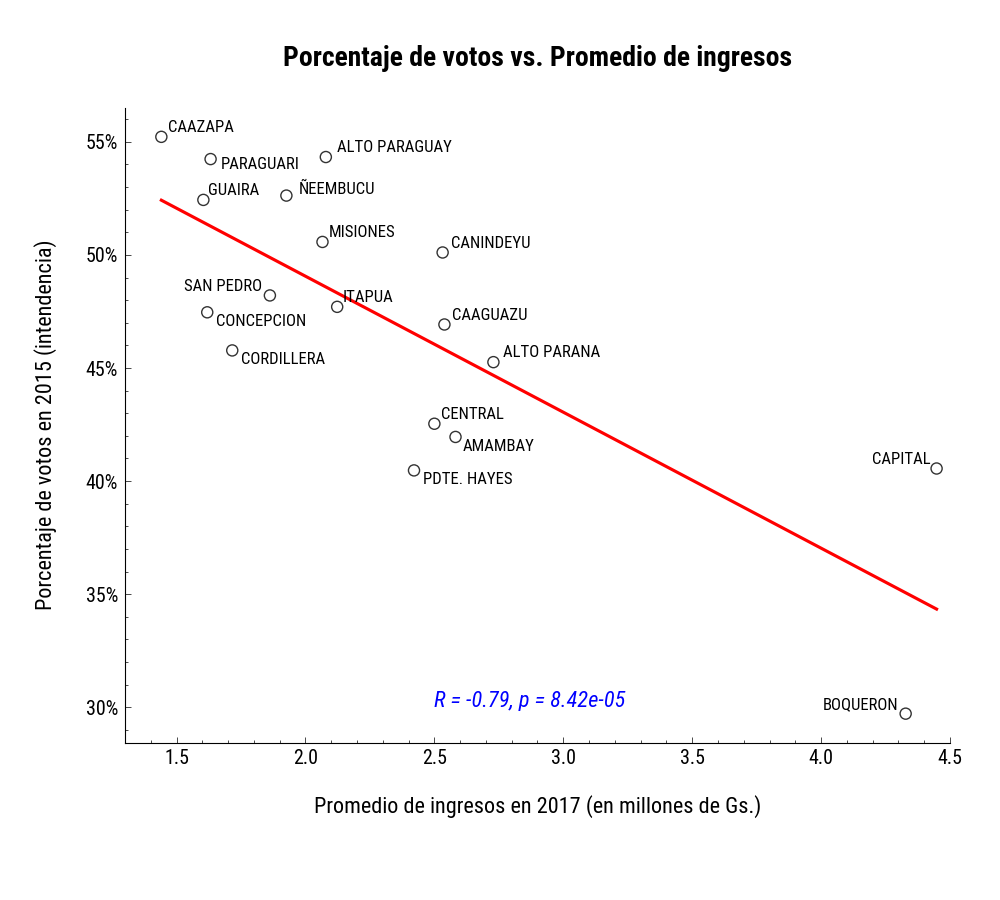
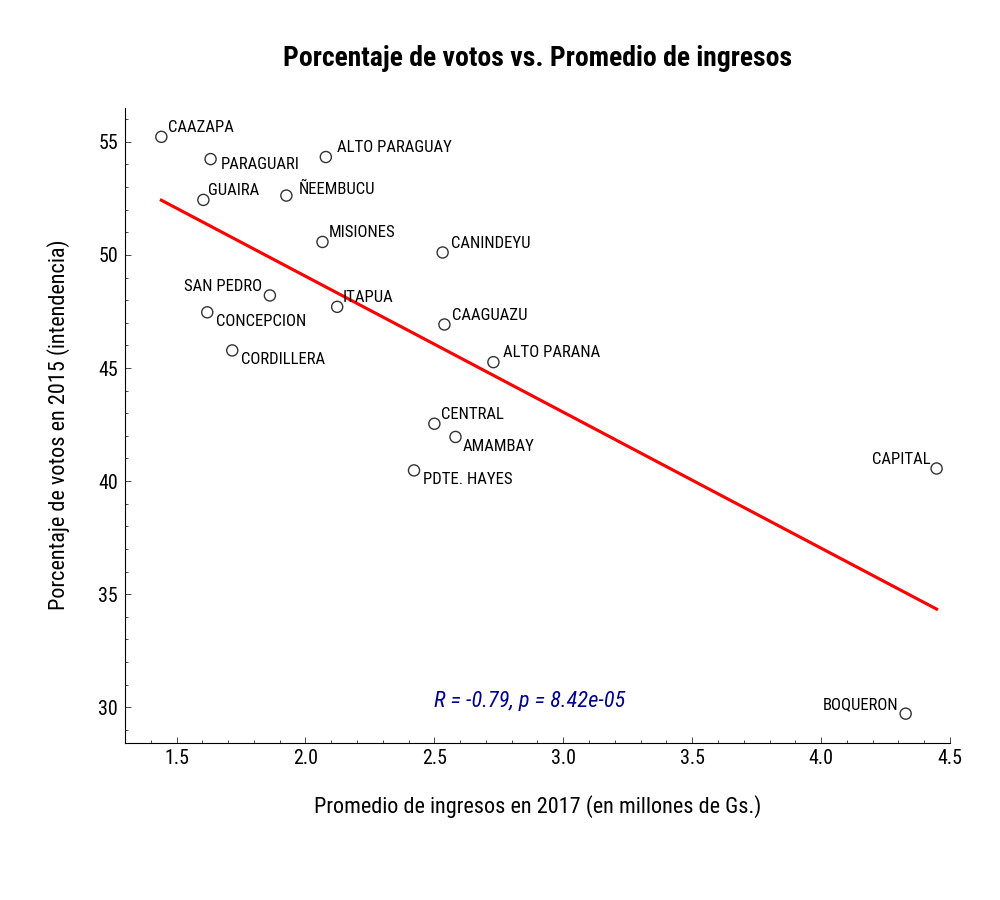
anr_mayor: Graph vote share per dep vs poverty

diff --git a/src/graph/grapher.py b/src/graph/grapher.py
@@ -1,4 +1,6 @@
 import pathlib
+from typing import Tuple, TypedDict
+from numpy import float128
 
 import pandas as pd
 import matplotlib.pyplot as plt
@@ -6,6 +8,12 @@ import seaborn as sns
 
 from adjustText import adjust_text
 from ..stats import Stats
+
+
+class StatCor(TypedDict):
+    show: bool
+    x_pos: float
+    y_post: float
 
 
 class Grapher:
@@ -22,24 +30,32 @@ class Grapher:
         style = str(pathlib.Path(__file__).parent) + "/.mplstyle"
         plt.style.use(style)
 
-    def make_vs_income_graph(
+    def make_vs_indicator_graph(
         self,
+        indicator: str,
         df: pd.DataFrame,
         y_column: str,
         title: str,
         xlab: str,
         ylab: str,
+        xticksuffix: str = "",
         yticksuffix: str = "",
+        indicator_factor: float = 1.0,
+        xlim: Tuple[int, int] = None,
+        stat_cor: StatCor = {'show': False}
     ):
         """
         Takes a data frame and the column to be used as the dependent variable
-        and creates a plot with income as the independent variable.
+        and creates a plot with the provided development indicator as the
+        independent variable.
 
         Parameters
         ----------
         df : Dataframe
             The dataframe that contains the dependent variable and the column
             by which to merge the dependent and independent variables.
+        indicator : String
+            Development indicator variable to use as independent variable.
         y_column: String
             The dependent variable's column name in dataframe.
         title: String
@@ -50,44 +66,97 @@ class Grapher:
             The y axis label.
         yticksuffix:
             Suffix to add to the dependent variable's ticks such as "%".
+        indicator_factor: Float
+            Scale indicator value by this factor.
         """
 
-        income = self.income[["dep", "valor"]]
-        income = income.rename(columns={"valor": "income"})
-        income["income_millions"] = income["income"] / 1000000
+        # Queries for the requested indicator and creates a pandas dataframe
+        # with dev_indicator as a column that contains the indicator's values.
+        #
+        # The values are then divided by the provided factor.
+        dev_ind = self.devIndicators.query(f"indicador == '{indicator}'")
+        dev_ind = dev_ind[["dep", "valor"]]
+        dev_ind = dev_ind.rename(columns={"valor": indicator})
+        dev_ind[indicator] = dev_ind[indicator] * indicator_factor
 
-        mergedDf = df.merge(income, on="dep")
+        mergedDf = df.merge(dev_ind, on="dep")
 
-        # Create regression plot.s
+        # Creates regression plot.
         ax = sns.regplot(
-            x=mergedDf["income_millions"],
+            x=mergedDf[indicator],
             y=mergedDf[y_column],
             ci=None,
             scatter_kws={"fc": "none", "edgecolor": "black"},
             line_kws={"color": "red"}
         )
         ax.set(xlabel=xlab, ylabel=ylab, title=title)
-        ax.set_xlim(1.3, 4.5)
 
-        # Add % suffix to y ticks.
+        if xlim:
+            ax.set_xlim(xlim)
+
+        # Adds suffix to x ticks.
+        ticks = plt.yticks()[0]
+        xlabels = [f"{x:.0f}{xticksuffix}" for x in ticks]
+        plt.yticks(ticks=ticks, labels=xlabels)
+
+        # Adds suffix to y ticks.
         ticks = plt.yticks()[0]
         ylabels = [f"{y:.0f}{yticksuffix}" for y in ticks]
         plt.yticks(ticks=ticks, labels=ylabels)
 
         # Add labels for each point.
         self.label_points(
-            mergedDf["income_millions"],
+            mergedDf[indicator],
             mergedDf[y_column],
             mergedDf["depdes"]
         )
 
-        annotation = self.stats.r_and_p_value(
-            mergedDf["income_millions"],
-            mergedDf[y_column]
-        )
-        ax.text(2.5, 30, annotation, fontsize=16, fontstyle="italic", c="blue")
+        if stat_cor['show']:
+            annotation = self.stats.r_and_p_value(
+                mergedDf[indicator],
+                mergedDf[y_column]
+            )
+            ax.text(stat_cor["x_pos"], stat_cor["y_pos"], annotation,
+                    fontsize=16, fontstyle="italic", c="darkblue")
 
         return ax.plot()
+
+    def make_vs_income_graph(
+        self, df: pd.DataFrame, y_column: str, title: str, xlab: str,
+        ylab: str
+    ):
+
+        """
+        Takes a data frame and the column to be used as the dependent variable
+        and creates a plot with income as the independent variable.
+
+        See `Grapher.make_vs_indicator_graph`
+        """
+
+        return self.make_vs_indicator_graph(
+            "ECON_IMAP", df, y_column, title, xlab, ylab, '%',
+            indicator_factor=1/1000000,
+            xlim=(1.3, 4.5),
+            stat_cor={'show': True, 'x_pos': 2.5, 'y_pos': 30}
+        )
+
+    def make_vs_poverty_graph(
+        self, df: pd.DataFrame, y_column: str, title: str, xlab: str,
+        ylab: str,
+    ):
+        """
+        Takes a data frame and the column to be used as the dependent variable
+        and creates a plot with poverty as the independent variable.
+
+        See `Grapher.make_vs_indicator_graph`
+        """
+
+        return self.make_vs_indicator_graph(
+            "PBRZ_PTOTL", df, y_column, title, xlab, ylab,
+            xticksuffix='%', yticksuffix='%',
+            xlim=(10, 50),
+            stat_cor={'show': True, 'x_pos': 26, 'y_pos': 35}
+        )
 
     def label_points(self, x: pd.Series, y: pd.Series, labels: pd.Series):
         """

diff --git a/src/anr/mayor.py b/src/anr/mayor.py
@@ -8,6 +8,11 @@ from ..graph import Grapher
 
 
 class AnrMayor(Mayor):
+    """
+    AnrMayor handles statistics and graphs on ANR performance on mayor
+    elections.
+    """
+
     def __init__(
         self,
         grapher: Grapher,
@@ -25,25 +30,49 @@ class AnrMayor(Mayor):
         )
         self.output_dir = output_dir
 
-        print(self.output_dir)
-
         # Use electoral roll for the general elections as proxy for the local
         # ones.
         self.roll = roll.voters_by_district(2018)
 
     def stats(self):
-        self.graph_results_vs_income()
+        share_per_dep = self.share_per_department(self.anr_mayor_results)
+        self.graph_results_vs_income(share_per_dep)
+        self.graph_results_vs_poverty(share_per_dep)
 
-    def graph_results_vs_income(self):
-        df = super().share_per_department(self.anr_mayor_results)
+    def graph_results_vs_income(self, share_per_dep: pd.DataFrame):
         title = "Porcentaje de votos vs. Promedio de ingresos"
         xlab = "Promedio de ingresos en 2017 (en millones de Gs.)"
         ylab = "Porcentaje de votos en 2015 (intendencia)"
 
         axes = self.grapher.make_vs_income_graph(
-                    df, "vote_percent", title, xlab, ylab, yticksuffix="%")
+                    share_per_dep,
+                    "vote_percent",
+                    title,
+                    xlab,
+                    ylab
+                )
 
         plt.plot(axes)
         plt.savefig(
             self.output_dir.joinpath("2015-voteshare_per_dep-vs-income")
         )
+        plt.close()
+
+    def graph_results_vs_poverty(self, share_per_dep: pd.DataFrame):
+        title = "Porcentaje de votos vs. Porcentaje de pobreza total"
+        xlab = "Porcentaje de personas en pobreza total"
+        ylab = "Porcentaje de votos en 2015 (intendencia)"
+
+        ax = self.grapher.make_vs_poverty_graph(
+                    share_per_dep,
+                    "vote_percent",
+                    title,
+                    xlab,
+                    ylab
+                )
+
+        plt.plot(ax)
+        plt.savefig(
+            self.output_dir.joinpath("2015-voteshare_per_dep-vs-poverty")
+        )
+        plt.close()
